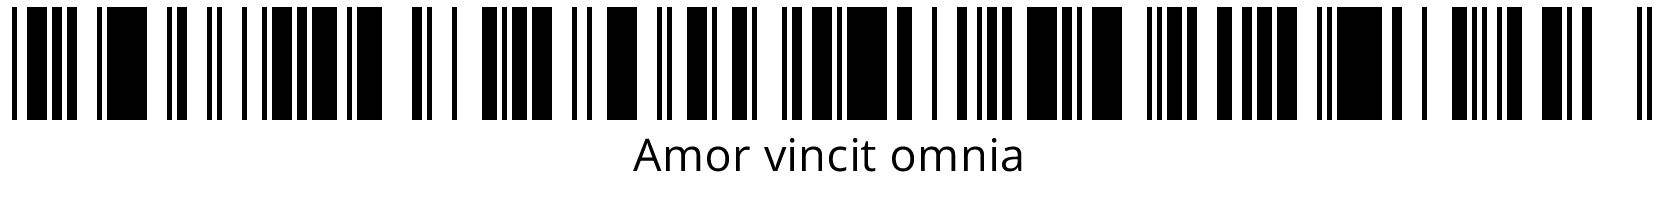
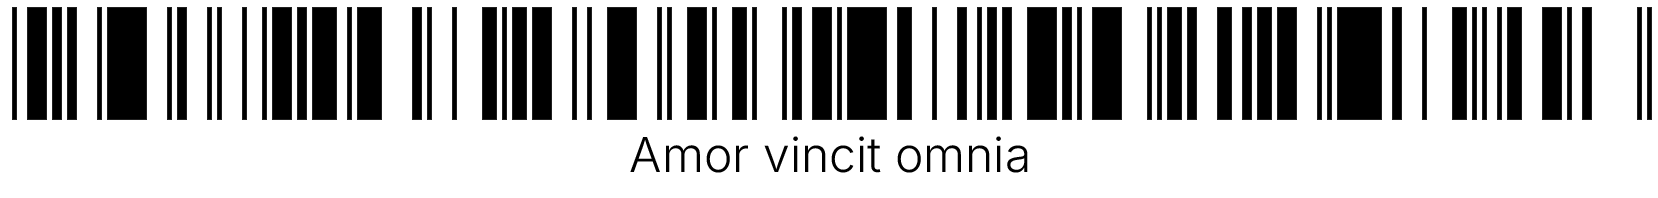
Implemented themes and improve some UI issues

Changed region(s): [[0.0, 0.0303, 0.9536, 0.6061], [0.3691, 0.697, 0.646, 0.8788], [0.9843, 0.0303, 1.0, 0.6061]]

diff --git a/app/profile/page.tsx b/app/profile/page.tsx
@@ -20,6 +20,7 @@ import {
 } from "firebase/firestore";
 import { db } from "@/firebase";
 import { toast } from "react-toastify";
+import { useTheme } from "../context/ThemeProvider";
 
 export default function Profile() {
     const [user, setUser] = useState(null);
@@ -29,7 +30,12 @@ export default function Profile() {
     const [username, setUsername] = useState("");
     const [editUsername, setEditUsername] = useState(false);
     const [userGoal, setUserGoal] = useState("");
-    const [theme, setTheme] = useState(0);
+    const { theme, setTheme } = useTheme();
+    const themes = [
+        { name: "Default", code: 0 },
+        { name: "Dark", code: 1 },
+        { name: "Pink", code: 2 },
+    ];
 
     async function handleUserNameEdit() {
         if (editUsername) {
@@ -169,7 +175,7 @@ export default function Profile() {
                                         type="text"
                                         id="Username"
                                         placeholder={username}
-                                        className="rounded-sm p-1 bg-white w-full mb-2 text-center"
+                                        className="rounded-sm p-1 bg-white w-full mb-2 text-center placeholder-gray-700 text-black"
                                     />
                                     <label
                                         onClick={handleUserNameEdit}
@@ -207,12 +213,12 @@ export default function Profile() {
                             to calculate your calorie needs. Come back and enter
                             your value.
                         </p>
-                        <div className="flex gap-2 justify-between mt-2">
+                        <div className="flex gap-2 justify-between mt-2 mb-8">
                             <input
                                 type="text"
                                 id="Goal"
                                 placeholder={userGoal}
-                                className="rounded-sm p-1 bg-white w-full"
+                                className="rounded-sm p-1 bg-white w-full placeholder-gray-700 text-black"
                             />
                             <button
                                 className="px-4 bg-accent-one text-white rounded-sm active:brightness-150"
@@ -222,28 +228,23 @@ export default function Profile() {
                             </button>
                         </div>
                     </div>
-                    <div className="p-3 pt-5 rounded-2xl bg-foreground m-5 flex gap-3 justify-evenly">
-                        <div className="flex flex-col justify-center items-center gap-2">
+                    <div className="p-3 pt-5 rounded-2xl bg-foreground mt-8 m-5 flex gap-3 justify-evenly">
+                        {themes.map((_theme, index) => (
                             <div
-                                className={`w-20 h-20 rounded-full bg-white ${theme === 0 ? "outline-2 outline-accent-two outline-offset-3" : ""}`}
-                                onClick={() => handleUserTheme(0)}
-                            ></div>
-                            <p>Default</p>
-                        </div>
-                        <div className="flex flex-col justify-center items-center gap-2">
-                            <div
-                                className={`w-20 h-20 rounded-full bg-gray-900 ${theme === 1 ? "outline-2 outline-accent-two outline-offset-3" : ""}`}
-                                onClick={() => handleUserTheme(1)}
-                            ></div>
-                            <p>Dark</p>
-                        </div>
-                        <div className="flex flex-col justify-center items-center gap-2">
-                            <div
-                                className={`w-20 h-20 rounded-full bg-pink-300 ${theme === 2 ? "outline-2 outline-offset-3 outline-accent-two" : ""}`}
-                                onClick={() => handleUserTheme(2)}
-                            ></div>
-                            <p>Pink</p>
-                        </div>
+                                key={index}
+                                className="flex flex-col justify-center items-center gap-2"
+                            >
+                                <div
+                                    className={`w-13 h-13 rounded-full ${theme === _theme.code ? "outline-2 outline-accent-two outline-offset-3" : ""}
+                                        ${_theme.code === 0 ? "bg-white" : ""}
+                                        ${_theme.code === 1 ? "bg-gray-900" : ""}
+                                        ${_theme.code === 2 ? "bg-pink-300" : ""}
+                                        `}
+                                    onClick={() => handleUserTheme(_theme.code)}
+                                ></div>
+                                <p>{_theme.name}</p>
+                            </div>
+                        ))}
                     </div>
                     <div className="mt-3">
                         <SignOut />

diff --git a/app/globals.css b/app/globals.css
@@ -4,20 +4,46 @@
 :root {
   --background: #e1e0e6;
   --foreground: #f0eff5;
+  --accent-one: #2d2e32;
+  --accent-two: #488ffb;
+  --primary: #ffffff;
+  --text-application: #000000;
+  --text-invert: #FFFFFF;
+}
+
+html[data-theme='dark'] {
+  --background: #090a0a;
+  --foreground: #141616;
+  --accent-one: #2d2e32;
+  --accent-two: #54ffbd;
+  --primary: #ffffff;
+  --text-application: #FFFFFF;
+  --text-invert: #FFFFFF;
+}
+
+html[data-theme='pink']{
+  --background: #e68bbe;
+  --foreground: #eea1cd;
+  --accent-one: #f9cee7;
+  --accent-two: #01f8d9;
+  --primary: #ffffff;
+  --text-application: #fde4f2;
+  --text-invert: #4b0707;
 }
 
 @theme inline {
   --color-background: var(--background);
   --color-foreground: var(--foreground);
-  --color-accent-one : #2d2e32;
-  --color-accent-two : #488ffb;
-  --color-primary: #FFFFFF;
-  --color-text: #364153;
+  --color-accent-one : var(--accent-one);
+  --color-accent-two : var(--accent-two);
+  --color-primary: var(--primary);
+  --color-text-invert: var(--text-invert);
+  --color-text-sys: var(--text-application);
 }
 
 body {
   background: var(--background);
-  color: #000000;
+  color: var(--text-application);
   font-family: Inter, sans-serif;
   max-width: 390px;
 }

diff --git a/app/page.tsx b/app/page.tsx
@@ -214,7 +214,7 @@ export default function Home() {
                 </span>
             </div>
             <div className="pt-[23px] pb-[23px] w-full relative">
-                <div className="text-text flex flex-col justify-start items-center px-3 py-8 bg-white w-full min-h-50 break-all">
+                <div className="text-[#364153] flex flex-col justify-start items-center px-3 py-8 bg-white w-full min-h-50 break-all">
                     <div className="px-3 w-full flex justify-between">
                         <span className="w-1/4 text-2xl active:scale-150 transition-all">{`<`}</span>
                         <h1 className="text-xl font-bold">{todaysDate}</h1>
@@ -304,7 +304,7 @@ export default function Home() {
                         <img
                             src="/barcode.png"
                             alt="Amor vincit omnia"
-                            className="opacity-100 object-fill"
+                            className="opacity-88 object-fill"
                         />
                     </div>
                 </div>

diff --git a/app/layout.tsx b/app/layout.tsx
@@ -2,7 +2,8 @@ import type { Metadata } from "next";
 import "./globals.css";
 import NavBar from "./components/NavBar";
 import { ToastContainer } from "react-toastify";
-import { useState } from "react";
+import { ThemeProvider, useTheme } from "./context/ThemeProvider";
+import Themer from "./components/Themer";
 
 export const metadata: Metadata = {
     title: "Food Journal",
@@ -15,14 +16,14 @@ export default function RootLayout({
     children: React.ReactNode;
 }>) {
     return (
-        <html lang="en">
-            <body className={`antialiased overflow-x-hidden mx-auto select-none`}>
+        <ThemeProvider>
+            <Themer>
                 <div className="flex justify-center items-center ">
                     <NavBar />
                 </div>
                 <div>{children}</div>
-                <ToastContainer/>
-            </body>
-        </html>
+                <ToastContainer />
+            </Themer>
+        </ThemeProvider>
     );
 }

diff --git a/app/components/NavBar.tsx b/app/components/NavBar.tsx
@@ -20,7 +20,7 @@ export default function NavBar() {
         <div className="bg-accent-one rounded-full my-3 mx-3 p-2 flex justify-center items-center w-fit gap-2 select-none">
             {routes.map((route: Route, index) => {
                 return (
-                <span key={index} className={`px-5 py-2 rounded-full active:brightness-150 ${currentRoute === route.route? "bg-foreground text-black" : "bg-accent-one text-foreground"}`}>
+                <span key={index} className={`px-5 py-2 rounded-full active:brightness-150 ${currentRoute === route.route? "bg-foreground text-text-sys" : "bg-accent-one text-text-invert"}`}>
                     <Link href={route.route}>{route.label}</Link>
                 </span>
                 );})}

diff --git a/app/components/Themer.tsx b/app/components/Themer.tsx
@@ -1,0 +1,16 @@
+"use client";
+import { useTheme } from "../context/ThemeProvider";
+
+export default function Themer({ children }: { children: React.ReactNode }) {
+    const { theme } = useTheme();
+
+    return (
+        <html lang="en" data-theme={`${theme === 1 ? "dark" : theme === 2 ? "pink":""}`}>
+            <body
+                className={`antialiased overflow-x-hidden mx-auto select-none`}
+            >
+                {children}
+            </body>
+        </html>
+    );
+}

diff --git a/app/context/ThemeProvider.tsx b/app/context/ThemeProvider.tsx
@@ -1,0 +1,16 @@
+"use client";
+import { createContext, useContext, useState } from 'react';
+
+const ThemeContext = createContext({theme: 0, setTheme: () => {}});
+
+export const ThemeProvider = ({ children }) => {
+  const [theme, setTheme] = useState(0);
+  
+  return (
+    <ThemeContext.Provider value={{ theme, setTheme }}>
+      {children}
+    </ThemeContext.Provider>
+  );
+};
+
+export const useTheme = () => useContext(ThemeContext);
